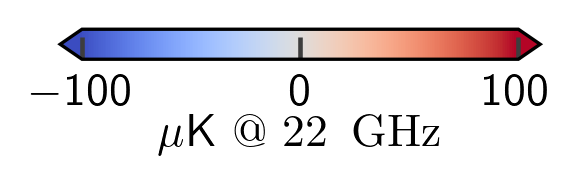
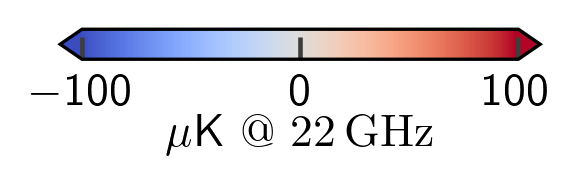
Updated figure

Changed region(s): [[0.2474, 0.5946, 0.7732, 0.8378]]

diff --git a/WMAP/01_reanalysis/figures/abscal_ame.py b/WMAP/01_reanalysis/figures/abscal_ame.py
@@ -4,15 +4,15 @@ import numpy as np
 
 DIR = '/mn/stornext/d5/data/duncanwa/WMAP'
 cg.plot(f'{DIR}/chains_grid_g0_1.178/ame_c0001_k000005.fits', min=-1e2, max=1e2, 
-    cmap='coolwarm', llabel=r'1.178', cbar=False)
+    cmap='coolwarm', llabel=r'1.178', cbar=False, width=4)
 plt.savefig('ame_g01.178.png', bbox_inches='tight', dpi=300)
 cg.plot(f'{DIR}/chains_grid_g0_1.181/ame_c0001_k000005.fits', min=-1e2, max=1e2, 
-    cmap='coolwarm', llabel='1.181', cbar=False)
+    cmap='coolwarm', llabel='1.181', cbar=False, width=4)
 plt.savefig('ame_g01.181.png', bbox_inches='tight', dpi=300)
 cg.plot(f'{DIR}/chains_grid_g0_1.185/ame_c0001_k000005.fits', min=-1e2, max=1e2, 
-    cmap='coolwarm', llabel='1.185', cbar=False)
+    cmap='coolwarm', llabel='1.185', cbar=False, width=4)
 plt.savefig('ame_g01.185.png', bbox_inches='tight', dpi=300)
 
 cg.standalone_colorbar("coolwarm", ticks=[-100,0,100], extend='both',
-    unit=r'$\mathrm{\mu K}$ @ 22\, GHz')
+    unit=r'$\mathrm{\mu K}$ @ 22\,GHz')
 plt.savefig('cbar_100uK.png', bbox_inches='tight', dpi=300)

diff --git a/WMAP/01_reanalysis/data/inst_plots/make_inst_plot_alpha.py b/WMAP/01_reanalysis/data/inst_plots/make_inst_plot_alpha.py
@@ -4,6 +4,7 @@ from matplotlib.ticker import MaxNLocator
 import numpy as N
 import scipy.stats
 import healpy as hp
+import cosmoglobe as cg
 
 import plotly.colors as pcol
 import matplotlib as mpl
